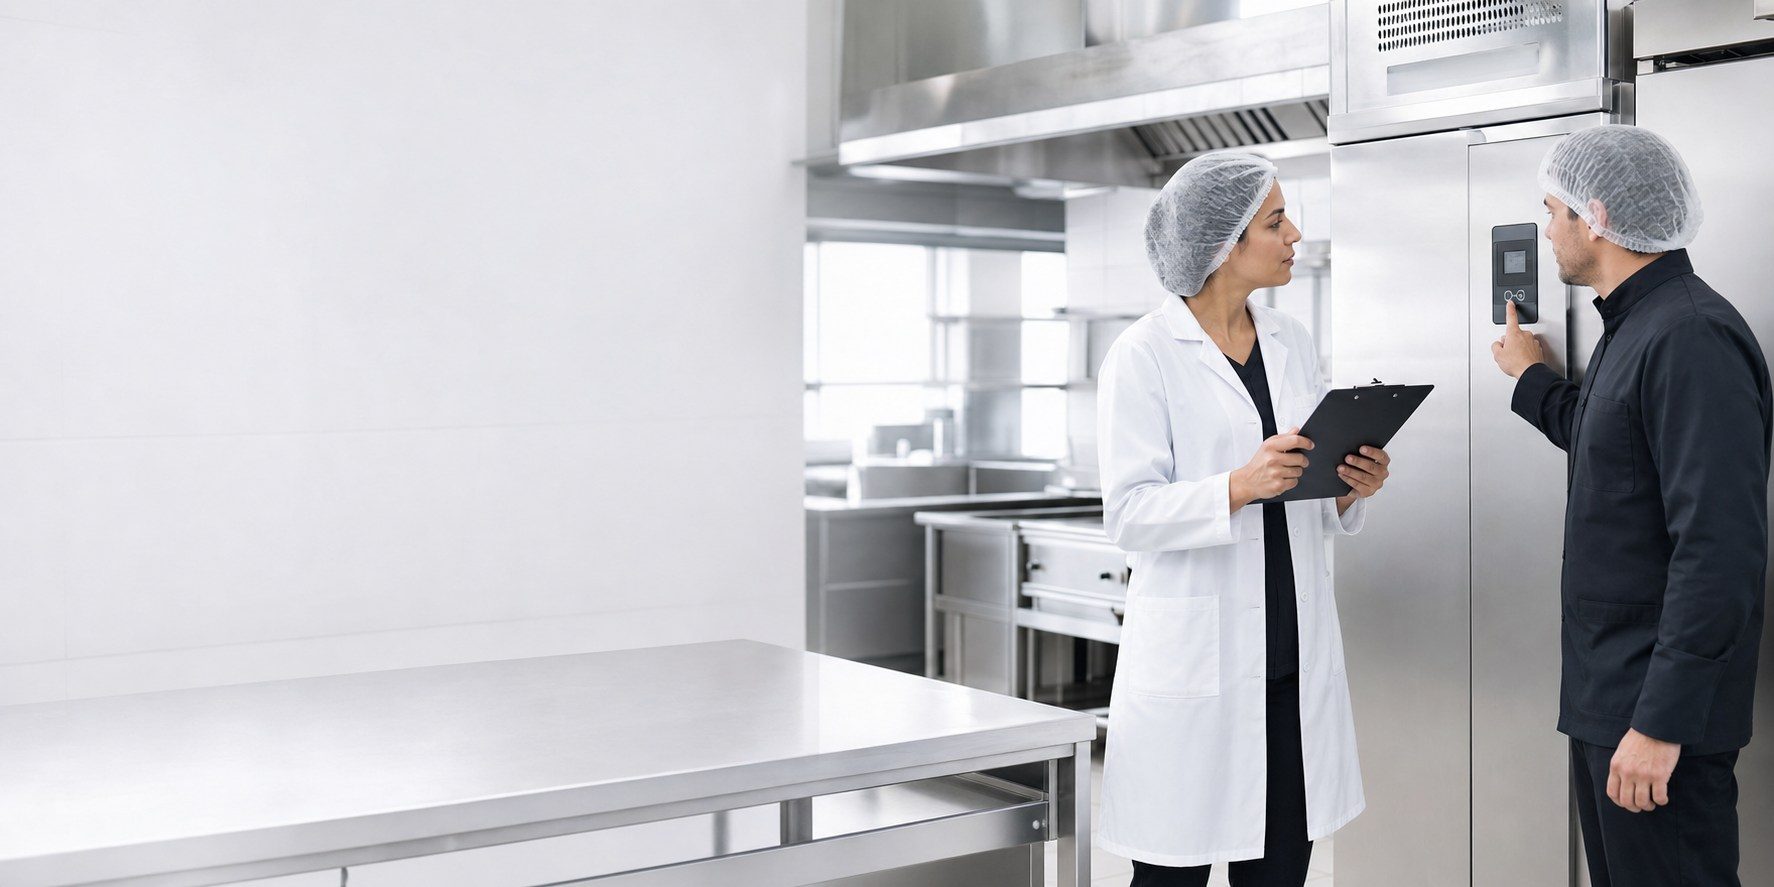
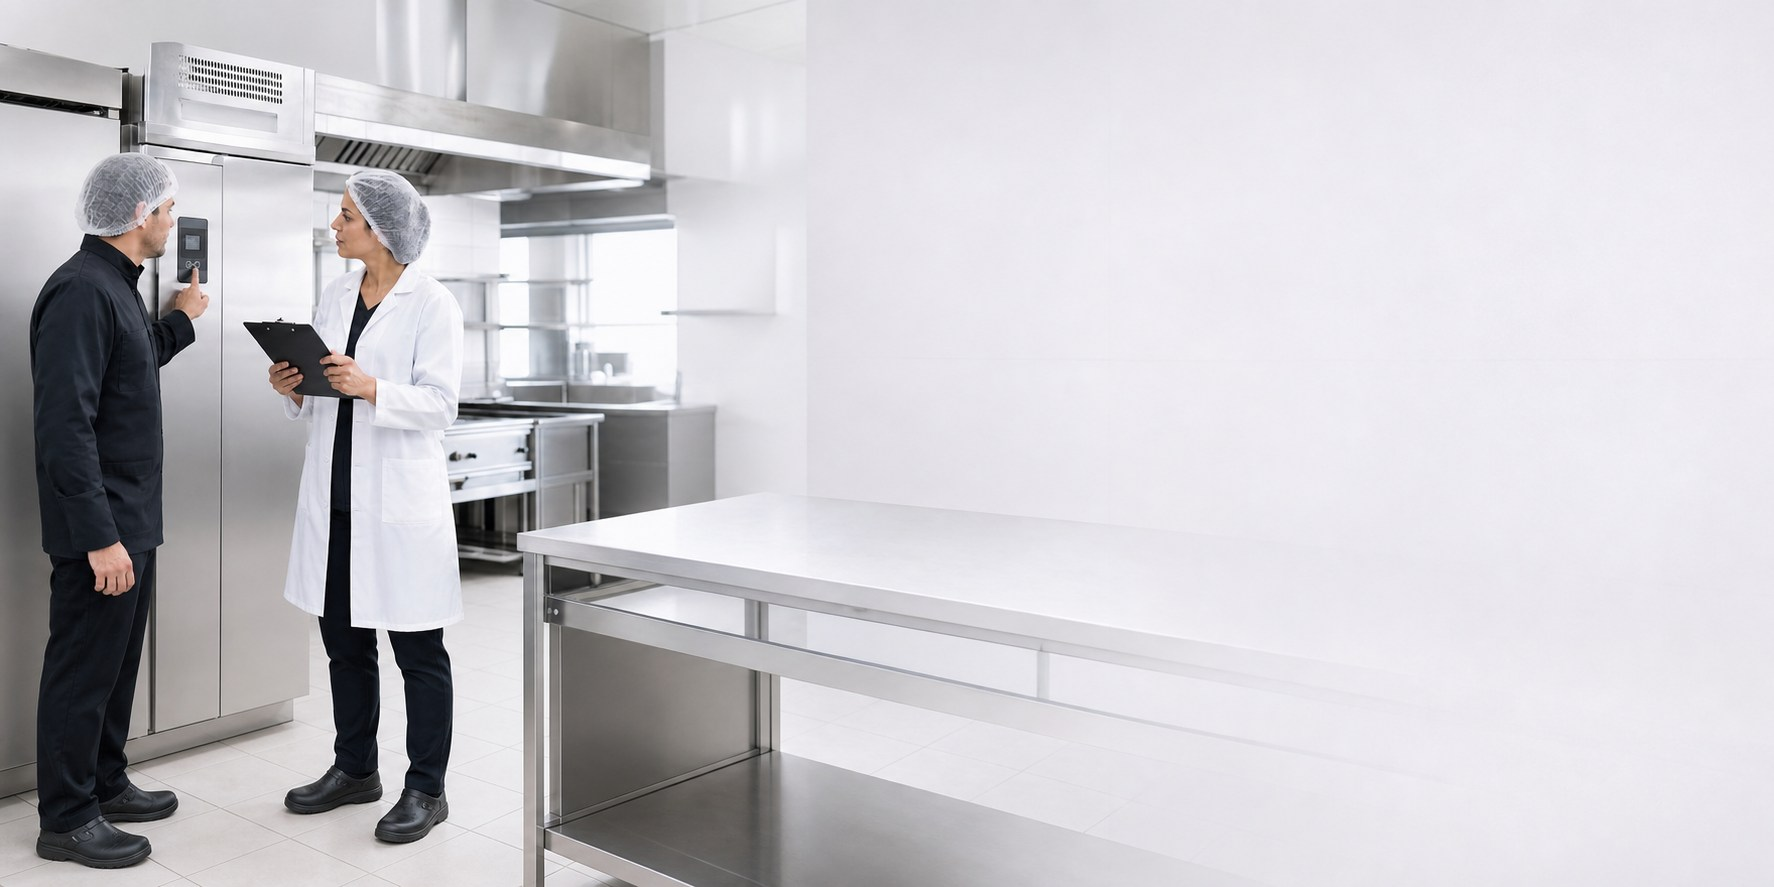
style: inverte hero da consultoria

diff --git a/styles.css b/styles.css
@@ -672,6 +672,20 @@ footer {
 
 .consulting-hero {
   background-image: url("./public/imagens_pub/octn-consultoria.jpg");
+  background-position: left center;
+}
+
+.consulting-hero::before {
+  background: linear-gradient(270deg, #ffffff 0%, rgba(255, 255, 255, 0.96) 30%, rgba(244, 246, 247, 0.62) 48%, rgba(244, 246, 247, 0) 68%);
+}
+
+.consulting-hero .inner-hero-content {
+  display: grid;
+  grid-template-columns: 1fr minmax(440px, 0.9fr);
+}
+
+.consulting-hero .inner-hero-content > * {
+  grid-column: 2;
 }
 
 .academy-hero {
@@ -1113,6 +1127,10 @@ footer {
     height: calc(100svh - 180px);
   }
 
+  .consulting-hero .inner-hero-content {
+    grid-template-columns: 0.8fr 1.2fr;
+  }
+
   .hero {
     min-height: 620px;
     height: calc(100svh - 180px);
@@ -1232,6 +1250,22 @@ footer {
     min-height: 620px;
     height: calc(100svh - 172px);
     background-position: 65% center;
+  }
+
+  .consulting-hero {
+    background-position: 32% center;
+  }
+
+  .consulting-hero::before {
+    background: linear-gradient(270deg, rgba(255, 255, 255, 0.98), rgba(255, 255, 255, 0.74));
+  }
+
+  .consulting-hero .inner-hero-content {
+    grid-template-columns: 1fr;
+  }
+
+  .consulting-hero .inner-hero-content > * {
+    grid-column: 1;
   }
 
   .inner-hero::before {
